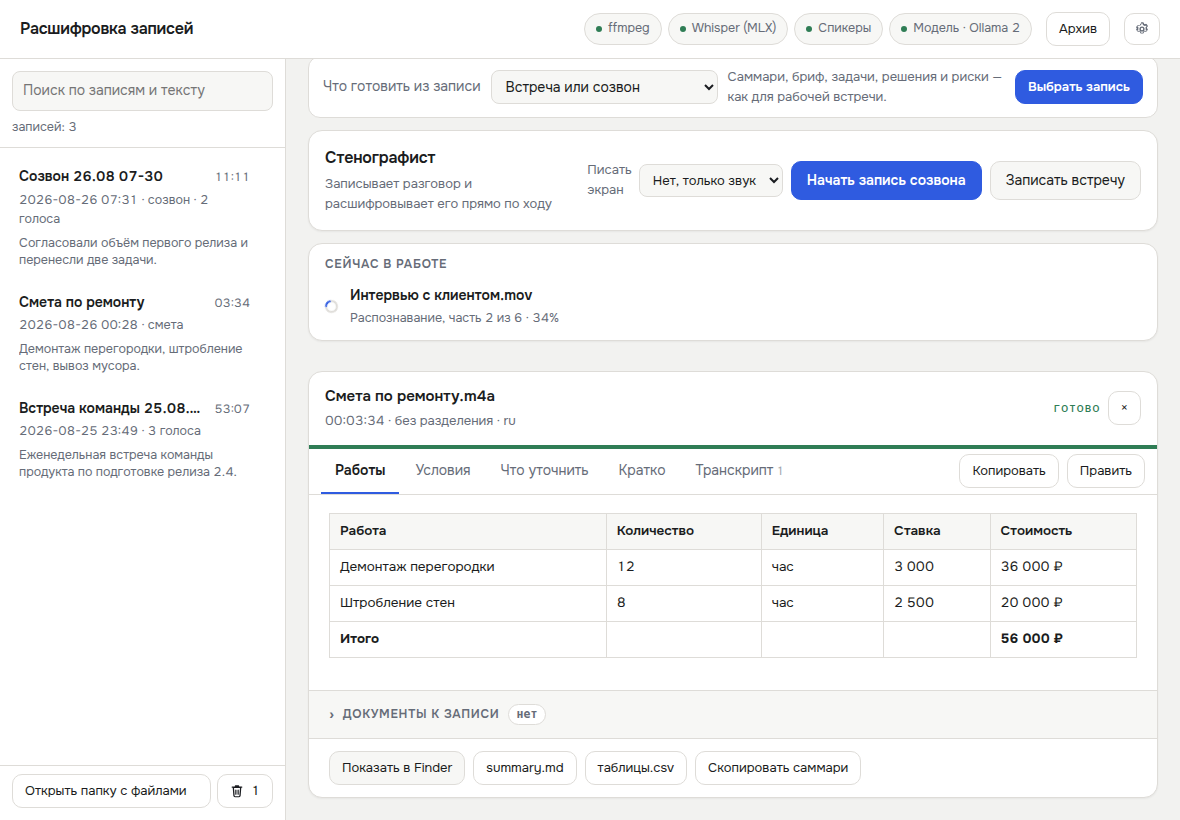
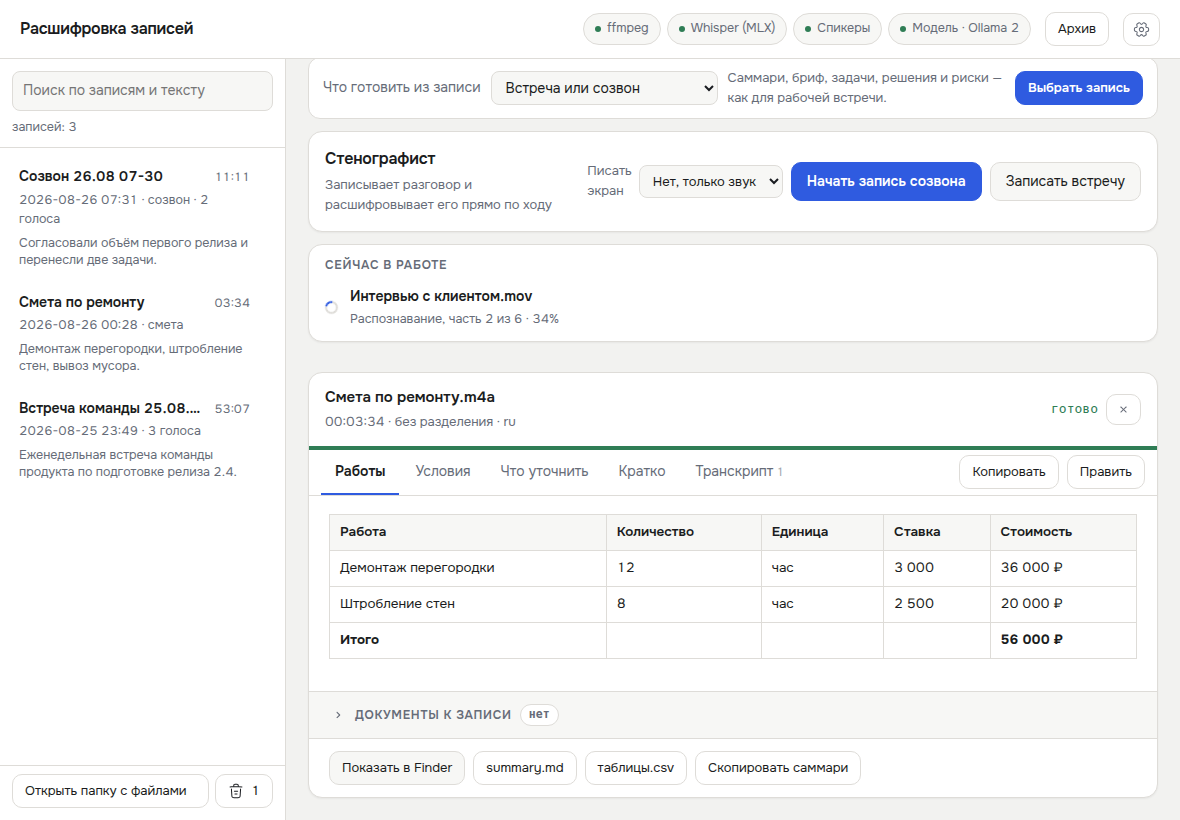
Все значки — из одного набора
Пять значков в окне были нарисованы руками, по одному, и это было видно:
разная толщина линии, разный радиус скругления, окно как будто собрано из
запчастей. Теперь все они из Iconsax (outline, 24×24) — из файла
сообщества Panda Icons Library в Figma.

Заодно ушли типографские подделки: крестик на кнопках удаления и уголок
на аккордеоне документов были буквами × и ›, притворявшимися значками.
Теперь это глифы того же набора; крестик — плюс, повёрнутый на 45°, как
рисует его и сам Iconsax.

Контуры лежат в одном объекте ICONS, цвет всегда currentColor — поэтому
обе темы и все состояния работают без второй копии чего бы то ни было, а
поменять набор целиком стоит одной правки. Файлов со значками нет и сети
они не требуют.

Условия — CC BY 4.0, то есть с указанием авторства: оно в настройках, в
README и в app/ui/icons/LICENSE-Iconsax.md. Там же записана неувязка:
сайт Iconsax говорит про CC BY 4.0, а LICENSE в их репозитории содержит
GPLv3. Перед продажей это стоит уточнить.

Claude-Session: https://claude.ai/code/session_01AUuHav9KvYAq5v96bGGMQJ

diff --git a/app/ui/index.html b/app/ui/index.html
@@ -67,6 +67,11 @@
     -webkit-font-smoothing:antialiased; overflow:hidden;
   }
   button{font:inherit; color:inherit; cursor:pointer; border:none; background:none}
+  /* Кнопка со значком центрирует его сама: раньше на этом месте стоял
+     текстовый крестик и всё держалось на межстрочном интервале. */
+  .kill, .x, .close, .tri, .ico{display:inline-flex; align-items:center; justify-content:center}
+  .icn{display:block; flex:0 0 auto}
+  .credit{font-size:11px; color:var(--muted); flex:1 1 100%; line-height:1.4}
   .btn{
     display:inline-flex; align-items:center; gap:7px; padding:8px 15px; font-size:14px;
     border-radius:10px; background:var(--panel-2); border:1px solid var(--line);
@@ -324,7 +329,7 @@
   }
   .docs summary::-webkit-details-marker{display:none}
   .docs summary:hover{color:var(--text)}
-  .docs summary .tri{display:inline-block; transition:transform .15s; font-size:15px}
+  .docs summary .tri{transition:transform .15s; color:var(--muted)}
   .docs[open] summary .tri{transform:rotate(90deg)}
   .docs summary .count{
     font-family:var(--mono); font-size:11.5px; letter-spacing:0; text-transform:none;
@@ -500,9 +505,7 @@
     <button class="btn ghost sm" id="btn-side" data-t="head.archive" data-t-title="head.archiveTitle" title="Показать или скрыть архив">Архив</button>
     <button class="btn ghost sm icon" id="btn-settings" data-t-title="head.settings"
       data-t-aria="head.settings" title="Настройки" aria-label="Настройки">
-      <svg viewBox="0 0 16 16" width="16" height="16" aria-hidden="true"><path fill="currentColor"
-        d="M8 5.4a2.6 2.6 0 1 0 0 5.2 2.6 2.6 0 0 0 0-5.2Zm0 1.4a1.2 1.2 0 1 1 0 2.4 1.2 1.2 0 0 1 0-2.4Z"/>
-      <path fill="currentColor" d="M7.1 1.2h1.8c.5 0 .9.35.98.84l.12.75c.3.11.58.25.85.42l.7-.3a1 1 0 0 1 1.2.33l.9 1.24a1 1 0 0 1-.13 1.32l-.57.5c.03.16.04.33.04.5s-.01.34-.04.5l.57.5a1 1 0 0 1 .13 1.32l-.9 1.24a1 1 0 0 1-1.2.33l-.7-.3c-.27.17-.55.31-.85.42l-.12.75a1 1 0 0 1-.98.84H7.1a1 1 0 0 1-.98-.84l-.12-.75c-.3-.11-.58-.25-.85-.42l-.7.3a1 1 0 0 1-1.2-.33l-.9-1.24a1 1 0 0 1 .13-1.32l.57-.5A4.3 4.3 0 0 1 3 8c0-.17.01-.34.04-.5l-.57-.5a1 1 0 0 1-.13-1.32l.9-1.24a1 1 0 0 1 1.2-.33l.7.3c.27-.17.55-.31.85-.42l.12-.75c.08-.49.48-.84.98-.84Zm.32 1.4-.16 1a.7.7 0 0 1-.5.56c-.42.12-.8.34-1.13.63a.7.7 0 0 1-.75.11l-.93-.4-.52.72.76.66c.22.2.31.5.23.79-.06.2-.09.42-.09.63s.03.43.09.63a.7.7 0 0 1-.23.79l-.76.66.52.72.93-.4a.7.7 0 0 1 .75.11c.33.29.71.51 1.13.63a.7.7 0 0 1 .5.56l.16 1h1.16l.16-1a.7.7 0 0 1 .5-.56c.42-.12.8-.34 1.13-.63a.7.7 0 0 1 .75-.11l.93.4.52-.72-.76-.66a.7.7 0 0 1-.23-.79c.06-.2.09-.42.09-.63s-.03-.43-.09-.63a.7.7 0 0 1 .23-.79l.76-.66-.52-.72-.93.4a.7.7 0 0 1-.75-.11 3 3 0 0 0-1.13-.63.7.7 0 0 1-.5-.56l-.16-1H7.42Z"/></svg>
+      <span class="ico" data-icon="gear" data-size="17"></span>
     </button>
   </header>
 
@@ -516,8 +519,7 @@
     <div class="side-foot">
       <button class="btn sm ghost" id="btn-lib-folder" style="flex:1" data-t="side.openFolder">Открыть папку с файлами</button>
       <button class="btn sm ghost" id="btn-trash" title="Корзина" data-t-title="trash.title">
-        <svg viewBox="0 0 16 16" width="14" height="14" aria-hidden="true"><path fill="currentColor"
-          d="M6.2 1.5h3.6c.4 0 .7.3.7.7v.6h3c.4 0 .7.3.7.7s-.3.7-.7.7h-.6l-.7 9.1a1.9 1.9 0 0 1-1.9 1.7H5.7a1.9 1.9 0 0 1-1.9-1.7l-.7-9.1h-.6a.7.7 0 0 1 0-1.4h3v-.6c0-.4.3-.7.7-.7Zm-1.6 3 .7 9c0 .3.3.5.5.5h4.4c.3 0 .5-.2.5-.5l.7-9H4.6Zm2.1 1.9c.4 0 .7.3.7.7v4.6a.7.7 0 0 1-1.4 0V7.1c0-.4.3-.7.7-.7Zm2.6 0c.4 0 .7.3.7.7v4.6a.7.7 0 0 1-1.4 0V7.1c0-.4.3-.7.7-.7Z"/></svg>
+        <span class="ico" data-icon="trash" data-size="16"></span>
         <span id="trash-count"></span>
       </button>
     </div>
@@ -545,6 +547,8 @@
   <div class="foot">
     <button class="btn primary" id="btn-save" data-t="btn.save">Сохранить</button>
     <button class="btn" id="btn-models" data-t="btn.downloadModels">Скачать модели спикеров</button>
+    <!-- Значки — CC BY 4.0, а это требует видимого указания авторства. -->
+    <span class="credit" data-t="settings.credit">Значки — Iconsax (Vuesax), CC BY 4.0</span>
   </div>
 </aside>
 
@@ -591,6 +595,8 @@ const STR = {
     'player.noMarks': 'Меток нет: в этой записи не нашлось решений и задач, привязанных к репликам.',
     'player.jump': 'Перейти к этому месту',
     'player.noServer': 'Проигрыватель не поднялся: локальный сервер не запустился. Метки ниже работают, файл записи можно открыть кнопкой внизу.',
+    'job.hide': 'Убрать карточку из рабочей области',
+    'settings.credit': 'Значки — Iconsax (Vuesax), CC BY 4.0',
     'player.full': 'Во весь экран',
     'player.fullTitle': 'Развернуть запись на весь экран (или двойной клик по картинке)',
     'mark.note': 'Заметка',
@@ -906,6 +912,8 @@ const STR = {
     'player.noMarks': 'No markers: nothing in this recording tied a decision or a task to a line.',
     'player.jump': 'Jump to this moment',
     'player.noServer': 'No player: the local media server did not start. The markers below still work, and the recording opens from the buttons at the bottom.',
+    'job.hide': 'Remove this card from the working area',
+    'settings.credit': 'Icons — Iconsax by Vuesax, CC BY 4.0',
     'player.full': 'Full screen',
     'player.fullTitle': 'Expand the recording to full screen (or double-click the picture)',
     'mark.note': 'Note',
@@ -1223,6 +1231,38 @@ function applyStatic(){
   document.querySelectorAll('[data-t-title]').forEach(el=>{ el.title = T(el.dataset.tTitle); });
   document.querySelectorAll('[data-t-aria]').forEach(el=>{
     el.setAttribute('aria-label', T(el.dataset.tAria)); });
+  paintIcons(document);
+}
+
+/* Значки в неизменной разметке окна: в html стоит пустое место с именем
+   значка, картинку подставляем отсюда — чтобы набор был описан в одном
+   месте, а не переписан руками в каждой кнопке. */
+function paintIcons(root){
+  root.querySelectorAll('.ico[data-icon]').forEach(el=>{
+    el.innerHTML = icon(el.dataset.icon, Number(el.dataset.size) || 16);
+  });
+}
+
+/* ---------- значки ----------
+   Все значки в окне — из одного набора: Panda Icons Library (vuesax
+   outline), 24×24, обводка нарисована заливкой. Один набор вместо
+   самодельных картинок: линии одной толщины, скругления одного радиуса —
+   окно перестаёт выглядеть собранным из разных мест. Цвет всегда
+   наследуется от кнопки, поэтому подсветка и тёмная тема работают сами.
+   Крестик — тот же плюс, повёрнутый на 45°: так его рисует и сам набор. */
+const ICONS = {
+  gear: '<path d="M12 15.75C9.93 15.75 8.25 14.07 8.25 12C8.25 9.93 9.93 8.25 12 8.25C14.07 8.25 15.75 9.93 15.75 12C15.75 14.07 14.07 15.75 12 15.75ZM12 9.75C10.76 9.75 9.75 10.76 9.75 12C9.75 13.24 10.76 14.25 12 14.25C13.24 14.25 14.25 13.24 14.25 12C14.25 10.76 13.24 9.75 12 9.75Z"/><path d="M15.21 22.1898C15 22.1898 14.79 22.1598 14.58 22.1098C13.96 21.9398 13.44 21.5498 13.11 20.9998L12.99 20.7998C12.4 19.7798 11.59 19.7798 11 20.7998L10.89 20.9898C10.56 21.5498 10.04 21.9498 9.42 22.1098C8.79 22.2798 8.14 22.1898 7.59 21.8598L5.87 20.8698C5.26 20.5198 4.82 19.9498 4.63 19.2598C4.45 18.5698 4.54 17.8598 4.89 17.2498C5.18 16.7398 5.26 16.2798 5.09 15.9898C4.92 15.6998 4.49 15.5298 3.9 15.5298C2.44 15.5298 1.25 14.3398 1.25 12.8798V11.1198C1.25 9.6598 2.44 8.4698 3.9 8.4698C4.49 8.4698 4.92 8.2998 5.09 8.0098C5.26 7.7198 5.19 7.2598 4.89 6.7498C4.54 6.1398 4.45 5.4198 4.63 4.7398C4.81 4.0498 5.25 3.4798 5.87 3.1298L7.6 2.1398C8.73 1.4698 10.22 1.8598 10.9 3.0098L11.02 3.2098C11.61 4.2298 12.42 4.2298 13.01 3.2098L13.12 3.0198C13.8 1.8598 15.29 1.4698 16.43 2.1498L18.15 3.1398C18.76 3.4898 19.2 4.0598 19.39 4.7498C19.57 5.4398 19.48 6.1498 19.13 6.7598C18.84 7.2698 18.76 7.7298 18.93 8.0198C19.1 8.3098 19.53 8.4798 20.12 8.4798C21.58 8.4798 22.77 9.6698 22.77 11.1298V12.8898C22.77 14.3498 21.58 15.5398 20.12 15.5398C19.53 15.5398 19.1 15.7098 18.93 15.9998C18.76 16.2898 18.83 16.7498 19.13 17.2598C19.48 17.8698 19.58 18.5898 19.39 19.2698C19.21 19.9598 18.77 20.5298 18.15 20.8798L16.42 21.8698C16.04 22.0798 15.63 22.1898 15.21 22.1898ZM12 18.4898C12.89 18.4898 13.72 19.0498 14.29 20.0398L14.4 20.2298C14.52 20.4398 14.72 20.5898 14.96 20.6498C15.2 20.7098 15.44 20.6798 15.64 20.5598L17.37 19.5598C17.63 19.4098 17.83 19.1598 17.91 18.8598C17.99 18.5598 17.95 18.2498 17.8 17.9898C17.23 17.0098 17.16 15.9998 17.6 15.2298C18.04 14.4598 18.95 14.0198 20.09 14.0198C20.73 14.0198 21.24 13.5098 21.24 12.8698V11.1098C21.24 10.4798 20.73 9.9598 20.09 9.9598C18.95 9.9598 18.04 9.5198 17.6 8.7498C17.16 7.9798 17.23 6.9698 17.8 5.9898C17.95 5.7298 17.99 5.4198 17.91 5.1198C17.83 4.8198 17.64 4.5798 17.38 4.4198L15.65 3.4298C15.22 3.1698 14.65 3.3198 14.39 3.7598L14.28 3.9498C13.71 4.9398 12.88 5.4998 11.99 5.4998C11.1 5.4998 10.27 4.9398 9.7 3.9498L9.59 3.7498C9.34 3.3298 8.78 3.1798 8.35 3.4298L6.62 4.4298C6.36 4.5798 6.16 4.8298 6.08 5.1298C6 5.4298 6.04 5.7398 6.19 5.9998C6.76 6.9798 6.83 7.9898 6.39 8.7598C5.95 9.5298 5.04 9.9698 3.9 9.9698C3.26 9.9698 2.75 10.4798 2.75 11.1198V12.8798C2.75 13.5098 3.26 14.0298 3.9 14.0298C5.04 14.0298 5.95 14.4698 6.39 15.2398C6.83 16.0098 6.76 17.0198 6.19 17.9998C6.04 18.2598 6 18.5698 6.08 18.8698C6.16 19.1698 6.35 19.4098 6.61 19.5698L8.34 20.5598C8.55 20.6898 8.8 20.7198 9.03 20.6598C9.27 20.5998 9.47 20.4398 9.6 20.2298L9.71 20.0398C10.28 19.0598 11.11 18.4898 12 18.4898Z"/>',
+  trash: '<path d="M20.9997 6.72998C20.9797 6.72998 20.9497 6.72998 20.9197 6.72998C15.6297 6.19998 10.3497 5.99998 5.11967 6.52998L3.07967 6.72998C2.65967 6.76998 2.28967 6.46998 2.24967 6.04998C2.20967 5.62998 2.50967 5.26998 2.91967 5.22998L4.95967 5.02998C10.2797 4.48998 15.6697 4.69998 21.0697 5.22998C21.4797 5.26998 21.7797 5.63998 21.7397 6.04998C21.7097 6.43998 21.3797 6.72998 20.9997 6.72998Z"/><path d="M8.50074 5.72C8.46074 5.72 8.42074 5.72 8.37074 5.71C7.97074 5.64 7.69074 5.25 7.76074 4.85L7.98074 3.54C8.14074 2.58 8.36074 1.25 10.6907 1.25H13.3107C15.6507 1.25 15.8707 2.63 16.0207 3.55L16.2407 4.85C16.3107 5.26 16.0307 5.65 15.6307 5.71C15.2207 5.78 14.8307 5.5 14.7707 5.1L14.5507 3.8C14.4107 2.93 14.3807 2.76 13.3207 2.76H10.7007C9.64074 2.76 9.62074 2.9 9.47074 3.79L9.24074 5.09C9.18074 5.46 8.86074 5.72 8.50074 5.72Z"/><path d="M15.2104 22.7501H8.79039C5.30039 22.7501 5.16039 20.8201 5.05039 19.2601L4.40039 9.19007C4.37039 8.78007 4.69039 8.42008 5.10039 8.39008C5.52039 8.37008 5.87039 8.68008 5.90039 9.09008L6.55039 19.1601C6.66039 20.6801 6.70039 21.2501 8.79039 21.2501H15.2104C17.3104 21.2501 17.3504 20.6801 17.4504 19.1601L18.1004 9.09008C18.1304 8.68008 18.4904 8.37008 18.9004 8.39008C19.3104 8.42008 19.6304 8.77007 19.6004 9.19007L18.9504 19.2601C18.8404 20.8201 18.7004 22.7501 15.2104 22.7501Z"/><path d="M13.6601 17.25H10.3301C9.92008 17.25 9.58008 16.91 9.58008 16.5C9.58008 16.09 9.92008 15.75 10.3301 15.75H13.6601C14.0701 15.75 14.4101 16.09 14.4101 16.5C14.4101 16.91 14.0701 17.25 13.6601 17.25Z"/><path d="M14.5 13.25H9.5C9.09 13.25 8.75 12.91 8.75 12.5C8.75 12.09 9.09 11.75 9.5 11.75H14.5C14.91 11.75 15.25 12.09 15.25 12.5C15.25 12.91 14.91 13.25 14.5 13.25Z"/>',
+  plus: '<path d="M18 12.75H6C5.59 12.75 5.25 12.41 5.25 12C5.25 11.59 5.59 11.25 6 11.25H18C18.41 11.25 18.75 11.59 18.75 12C18.75 12.41 18.41 12.75 18 12.75Z"/><path d="M12 18.75C11.59 18.75 11.25 18.41 11.25 18V6C11.25 5.59 11.59 5.25 12 5.25C12.41 5.25 12.75 5.59 12.75 6V18C12.75 18.41 12.41 18.75 12 18.75Z"/>',
+  expand: '<path d="M21 9.75C20.59 9.75 20.25 9.41 20.25 9V3.75H15C14.59 3.75 14.25 3.41 14.25 3C14.25 2.59 14.59 2.25 15 2.25H21C21.41 2.25 21.75 2.59 21.75 3V9C21.75 9.41 21.41 9.75 21 9.75Z"/><path d="M9 21.75H3C2.59 21.75 2.25 21.41 2.25 21V15C2.25 14.59 2.59 14.25 3 14.25C3.41 14.25 3.75 14.59 3.75 15V20.25H9C9.41 20.25 9.75 20.59 9.75 21C9.75 21.41 9.41 21.75 9 21.75Z"/><path d="M13.4995 11.2499C13.3095 11.2499 13.1195 11.1799 12.9695 11.0299C12.6795 10.7399 12.6795 10.2599 12.9695 9.96994L20.4695 2.46994C20.7595 2.17994 21.2395 2.17994 21.5295 2.46994C21.8195 2.75994 21.8195 3.23994 21.5295 3.52994L14.0295 11.0299C13.8795 11.1799 13.6895 11.2499 13.4995 11.2499Z"/><path d="M2.99945 21.7499C2.80945 21.7499 2.61945 21.6799 2.46945 21.5299C2.17945 21.2399 2.17945 20.7599 2.46945 20.4699L9.96945 12.9699C10.2595 12.6799 10.7395 12.6799 11.0295 12.9699C11.3195 13.2599 11.3195 13.7399 11.0295 14.0299L3.52945 21.5299C3.37945 21.6799 3.18945 21.7499 2.99945 21.7499Z"/>',
+  chevron: '<path d="M10.7397 16.2802C10.5497 16.2802 10.3597 16.2102 10.2097 16.0602C9.91969 15.7702 9.91969 15.2902 10.2097 15.0002L13.2097 12.0002L10.2097 9.00016C9.91969 8.71016 9.91969 8.23016 10.2097 7.94016C10.4997 7.65016 10.9797 7.65016 11.2697 7.94016L14.7997 11.4702C15.0897 11.7602 15.0897 12.2402 14.7997 12.5302L11.2697 16.0602C11.1197 16.2102 10.9297 16.2802 10.7397 16.2802Z"/>',
+  close: '<g transform="rotate(45 12 12)"><path d="M18 12.75H6C5.59 12.75 5.25 12.41 5.25 12C5.25 11.59 5.59 11.25 6 11.25H18C18.41 11.25 18.75 11.59 18.75 12C18.75 12.41 18.41 12.75 18 12.75Z"/><path d="M12 18.75C11.59 18.75 11.25 18.41 11.25 18V6C11.25 5.59 11.59 5.25 12 5.25C12.41 5.25 12.75 5.59 12.75 6V18C12.75 18.41 12.41 18.75 12 18.75Z"/></g>',
+};
+
+function icon(name, size){
+  const px = size || 16;
+  return `<svg class="icn" viewBox="0 0 24 24" width="${px}" height="${px}"
+    fill="currentColor" aria-hidden="true">${ICONS[name] || ''}</svg>`;
 }
 
 /* ========== мини-рендер markdown ========== */
@@ -1437,12 +1477,7 @@ function wirePlayer(j){
 
 /* Разворот на весь экран. В маленьком окошке не разобрать, что показывали, а
    встроенной кнопки у WebKit в этом окне нет — делаем свою. */
-const FULL_ICON = `<svg viewBox="0 0 16 16" width="12" height="12" aria-hidden="true"><path
-  fill="currentColor" d="M2.6 2h3.2a.7.7 0 0 1 0 1.4H4.05l2.1 2.1a.7.7 0 1 1-1 1L3.05 4.4v1.75a.7.7 0
-  0 1-1.4 0V2.95c0-.52.43-.95.95-.95Zm10.8 0c.52 0 .95.43.95.95v3.2a.7.7 0 0 1-1.4 0V4.4l-2.1 2.1a.7.7
-  0 1 1-1-1l2.1-2.1h-1.75a.7.7 0 0 1 0-1.4h3.2ZM2.35 9.15c.39 0 .7.31.7.7v1.75l2.1-2.1a.7.7 0 1 1 1
-  1l-2.1 2.1h1.75a.7.7 0 0 1 0 1.4H2.6a.95.95 0 0 1-.95-.95v-3.2c0-.39.31-.7.7-.7Zm11.3 0c.39 0 .7.31.7.7v3.2c0
-  .52-.43.95-.95.95h-3.2a.7.7 0 0 1 0-1.4h1.75l-2.1-2.1a.7.7 0 1 1 1-1l2.1 2.1v-1.75c0-.39.31-.7.7-.7Z"/></svg>`;
+const FULL_ICON = icon('expand', 14);
 
 function goFull(jobId){
   const media=document.getElementById('media-'+jobId);
@@ -1462,8 +1497,7 @@ function seekTo(jobId, seconds){
   return true;
 }
 
-const PLUS_ICON = `<svg viewBox="0 0 16 16" width="13" height="13" aria-hidden="true"><path
-  fill="currentColor" d="M8 2.6c.4 0 .75.34.75.75V7.2h3.9a.75.75 0 0 1 0 1.5h-3.9v3.85a.75.75 0 0 1-1.5 0V8.7H3.3a.75.75 0 0 1 0-1.5h3.95V3.35c0-.41.34-.75.75-.75Z"/></svg>`;
+const PLUS_ICON = icon('plus', 15);
 
 function docsHTML(j){
   // Пока запись считается, прикладывать нечего: файлы записи ещё не готовы.
@@ -1478,7 +1512,7 @@ function docsHTML(j){
   const open = state.docsOpen.has(j.id) || false;
   return `<details class="docs" ${open?'open':''} data-docs="${j.id}">
     <summary>
-      <span class="tri" aria-hidden="true">›</span>
+      <span class="tri ico" aria-hidden="true">${icon('chevron', 18)}</span>
       ${T('docs.heading')}
       <span class="count">${items.length ? items.length : T('docs.none')}</span>
     </summary>
@@ -1491,7 +1525,7 @@ function docsHTML(j){
             data-thumb="${esc(d.name)}" data-job="${j.id}"></button>
           <figcaption>${esc(d.name)}</figcaption>
           ${editing?`<button class="x" data-docdel="${esc(d.name)}" data-job="${j.id}"
-            title="${T('docs.remove')}">×</button>`:''}
+            title="${T('docs.remove')}">${icon('close', 15)}</button>`:''}
         </figure>`).join('')}</div>` : ''}
       ${docs.length ? `<div class="list">${docs.map(d=>`
         <span class="doc ${editing?'editing':''}">
@@ -1500,7 +1534,7 @@ function docsHTML(j){
           <span class="kb">${Math.max(1, Math.round(d.size/1024))} ${T('docs.kb')}</span>
           ${d.readable?'':`<span class="no">${T('docs.unreadable')}</span>`}
           ${editing?`<button class="x" data-docdel="${esc(d.name)}" data-job="${j.id}"
-            title="${T('docs.remove')}">×</button>`:''}
+            title="${T('docs.remove')}">${icon('close', 15)}</button>`:''}
         </span>`).join('')}</div>` : ''}
       <div class="acts">
         <button class="btn sm primary" data-docadd="${j.id}">${PLUS_ICON}${T('docs.add')}</button>
@@ -1530,7 +1564,7 @@ async function fillThumbs(){
 async function showShot(jobId, name){
   const box=document.createElement('div');
   box.className='lightbox';
-  box.innerHTML=`<button class="close" title="${T('docs.closeShot')}">×</button><img alt="${esc(name)}">`;
+  box.innerHTML=`<button class="close" title="${T('docs.closeShot')}">${icon('close', 24)}</button><img alt="${esc(name)}">`;
   box.onclick=()=>box.remove();
   document.body.appendChild(box);
   const big=await api().attach_preview(jobId, name, 1600);
@@ -1608,7 +1642,8 @@ function jobCard(j){
           <button class="btn sm ghost" data-cancel="${j.id}">${T('job.cancel')}</button>`:''}
         ${j.status==='done'?`<span class="pct" style="color:var(--ok)">${T('job.done')}</span>`:''}
         ${j.status==='cancelled'?`<span class="pct">${T('job.cancelled')}</span>`:''}
-        ${j.status!=='running'&&j.status!=='pending'?`<button class="btn sm ghost" data-remove="${j.id}">×</button>`:''}
+        ${j.status!=='running'&&j.status!=='pending'?`<button class="btn sm ghost icon" data-remove="${j.id}"
+          title="${T('job.hide')}">${icon('close', 15)}</button>`:''}
       </div>
     </div>
     <div class="bar"><i style="width:${(j.progress*100).toFixed(1)}%"></i></div>
@@ -1689,16 +1724,16 @@ function editorHTML(j,key){
     if(b.type==='table'){
       const head=`<div class="row">${b.header.map(c=>
         `<span class="cell" contenteditable="true" data-head="1">${esc(c)}</span>`).join('')}
-        <button class="kill" style="visibility:hidden">×</button></div>`;
+        <button class="kill" style="visibility:hidden">${icon('close', 15)}</button></div>`;
       const rows=b.rows.map(cells=>`<div class="row" data-row="1">${
         cells.map(c=>`<span class="cell" contenteditable="true">${esc(c)}</span>`).join('')}
-        <button class="kill" data-strike="1" title="${T('edit.removeRowTitle')}">×</button></div>`).join('');
+        <button class="kill" data-strike="1" title="${T('edit.removeRowTitle')}">${icon('close', 15)}</button></div>`).join('');
       return `<div class="edit-table" data-sep="${esc(b.sep)}">${head}${rows}</div>`;
     }
     const heading=/^\s*#{2,4}\s/.test(b.text);
     return `<div class="edit-item${heading?' head':''}" data-line="1">
       <span class="body${heading?' edit-head':''}" contenteditable="true">${esc(b.text)}</span>
-      <button class="kill" data-strike="1" title="${T('edit.removePointTitle')}">×</button></div>`;
+      <button class="kill" data-strike="1" title="${T('edit.removePointTitle')}">${icon('close', 15)}</button></div>`;
   }).join('');
   return out + `<div class="edit-foot">
       <button class="btn sm primary" data-editsave="${j.id}">${T('btn.save')}</button>
@@ -1740,8 +1775,7 @@ function libSub(it){
   return bits.join(' · ');
 }
 
-const TRASH_ICON = `<svg viewBox="0 0 16 16" width="14" height="14" aria-hidden="true"><path fill="currentColor"
-  d="M6.2 1.5h3.6c.4 0 .7.3.7.7v.6h3c.4 0 .7.3.7.7s-.3.7-.7.7h-.6l-.7 9.1a1.9 1.9 0 0 1-1.9 1.7H5.7a1.9 1.9 0 0 1-1.9-1.7l-.7-9.1h-.6a.7.7 0 0 1 0-1.4h3v-.6c0-.4.3-.7.7-.7Zm-1.6 3 .7 9c0 .3.3.5.5.5h4.4c.3 0 .5-.2.5-.5l.7-9H4.6Zm2.1 1.9c.4 0 .7.3.7.7v4.6a.7.7 0 0 1-1.4 0V7.1c0-.4.3-.7.7-.7Zm2.6 0c.4 0 .7.3.7.7v4.6a.7.7 0 0 1-1.4 0V7.1c0-.4.3-.7.7-.7Z"/></svg>`;
+const TRASH_ICON = icon('trash', 15);
 
 /* Корзина живёт в той же панели: список записей подменяется списком удалённых,
    чтобы не заводить ещё одно окно ради четырёх строк. */
@@ -2159,7 +2193,7 @@ function directoryHTML(){
       ${rows.map(p=>`<div class="people-row">
         <span class="who">${esc(p.name)}${p.role?` <span class="role">· ${esc(p.role)}</span>`:''}</span>
         ${p.voice?`<span class="mark">${T('people.hasVoice')}</span>`:''}
-        <button class="x" data-personout="${esc(p.name)}" title="${T('people.remove')}">×</button>
+        <button class="x" data-personout="${esc(p.name)}" title="${T('people.remove')}">${icon('close', 14)}</button>
       </div>`).join('')}
     </div>`;
   }).join('');
@@ -2182,7 +2216,7 @@ function knownVoicesHTML(){
     `<span class="spk"><b>${esc(v.name)}</b>
       <span class="m">${T('settings.voicePrints',{n:v.prints})}</span>
       <button class="x" data-forget="${esc(v.name)}"
-        title="${T('settings.forgetVoice')}">×</button></span>`).join('') + `</div>`;
+        title="${T('settings.forgetVoice')}">${icon('close', 14)}</button></span>`).join('') + `</div>`;
 }
 
 async function loadVoices(){

diff --git a/app/__init__.py b/app/__init__.py
@@ -1,3 +1,3 @@
 """Локальная расшифровка записей: транскрипт, саммари, бриф, задачи."""
 
-__version__ = "1.6.2"
+__version__ = "1.6.3"

diff --git a/app/ui/icons/LICENSE-Iconsax.md b/app/ui/icons/LICENSE-Iconsax.md
@@ -1,0 +1,28 @@
+# Значки в окне приложения
+
+Все значки взяты из одного набора — **Iconsax** (авторы — Vuesax), стиль
+`outline`, 24×24. В приложение они попали через файл сообщества Figma
+[Panda Icons Library](https://www.figma.com/design/jXXgEJCcPZv2mRe788eBsP/Panda-Icons-Library--Community-),
+где слои так и называются: `vuesax/outline/…`.
+
+Отдельных файлов нет: контуры вшиты в `app/ui/index.html` (объект `ICONS`),
+потому что приложение обещает работать без сети и не подтягивать ничего
+снаружи. Использованы: `setting-2`, `trash`, `add`, `maximize-4` и стрелка
+из `arrow-right`. Крестик — тот же `add`, повёрнутый на 45°: так его рисует
+и сам набор.
+
+## Условия
+
+Официальная документация Iconsax сообщает, что бесплатный набор
+распространяется по **CC BY 4.0**: коммерческое использование разрешено при
+указании авторства. Это указание — здесь и в README.
+
+**Расхождение, о котором стоит знать.** В репозитории
+[Vuesax/iconsax](https://github.com/Vuesax/iconsax) файл `LICENSE` содержит
+текст **GPLv3**, а сайт [iconsax.io](https://docs.iconsax.io/faqs/more)
+говорит про CC BY 4.0. Два источника противоречат друг другу. Пока
+приложение раздаётся как есть, с указанием авторства, — этого достаточно и
+для CC BY. Но если дело дойдёт до платного распространения или до магазина
+приложений, условия стоит уточнить у авторов набора: разница между CC BY и
+GPL в этом случае принципиальна. Заменить набор дёшево — все контуры лежат в
+одном объекте `ICONS`.

diff --git a/docs/architecture.md b/docs/architecture.md
@@ -355,6 +355,30 @@ random port, restricted to the recording folders and to known extensions. The
 important part is the `Range` header: without it a player cannot seek, and
 seeking is the whole point.
 
+## One icon set, shipped inside
+
+The five icons in the window were drawn by hand, one at a time, and it showed:
+different stroke weights, different corner radii, a window that looked
+assembled from spare parts. They now all come from Iconsax (outline style, a
+24×24 grid), taken from the Panda Icons Library community file in Figma.
+
+The typographic stand-ins went with them: the `×` on every remove button and
+the `›` on the documents accordion were letters pretending to be icons. They
+are the set's own glyphs now — the cross is the plus rotated 45°, which is how
+Iconsax draws it too.
+
+The paths live in a single `ICONS` object in `app/ui/index.html` and the colour
+is always `currentColor`, so both themes, hover and highlight states work
+without a second copy of anything, and swapping the whole set costs one edit.
+There are no icon files and no network: the app promises to work offline, and
+that promise covers letters and icons as well.
+
+The terms are CC BY 4.0 — with attribution — which is in Settings, in the
+README and in `app/ui/icons/LICENSE-Iconsax.md`. That file also records a
+contradiction: the Iconsax site says CC BY 4.0 while the `LICENSE` file in
+their repository contains GPLv3. Fine while the app is given away as is; worth
+settling before it is ever sold.
+
 ## Two traps in testing this
 
 **Synthetic voices prove nothing.** Both a pitch-shifted TTS voice and three

diff --git a/CHANGELOG.md b/CHANGELOG.md
@@ -4,6 +4,24 @@ All notable changes to this project are documented here.
 The format follows [Keep a Changelog](https://keepachangelog.com/en/1.1.0/),
 and the project uses [semantic versioning](https://semver.org/).
 
+## [1.6.3] — 2026-08-30
+
+### Changed
+
+- **Every icon now comes from one set.** The five icons in the window were
+  drawn by hand, one at a time, and it showed: different stroke weights,
+  different corner radii, a window that looked assembled from spare parts.
+  They are all replaced with **Iconsax** (outline, 24×24), taken from the
+  Panda Icons Library file in Figma. The typographic stand-ins went with them
+  — the `×` on every remove button and the `›` on the documents accordion are
+  now the set's own glyphs, so nothing is a letter pretending to be an icon.
+  The paths live in one `ICONS` object, colour is inherited from the button,
+  so both themes and every hover state work without a second copy of anything.
+- The icons ship inside the app like the typeface does — nothing is fetched
+  from a network. They are CC BY 4.0, so the credit is in Settings, in the
+  README, and in `app/ui/icons/LICENSE-Iconsax.md`, which also records a
+  contradiction worth knowing about before the app is ever sold.
+
 ## [1.6.2] — 2026-08-30
 
 ### Fixed

diff --git a/README.md b/README.md
@@ -514,3 +514,12 @@ Contributions are welcome — see [CONTRIBUTING.md](CONTRIBUTING.md).
 ## License
 
 [MIT](LICENSE) — use it, change it, ship it, for free.
+
+Two things in here are not mine, and both ship inside the app rather than
+being fetched from anywhere:
+
+- **The Onest typeface** — SIL Open Font License, text in
+  [app/ui/fonts/LICENSE-Onest.txt](app/ui/fonts/LICENSE-Onest.txt).
+- **The Iconsax icons** by Vuesax, outline style — CC BY 4.0, i.e. with
+  attribution. Details, and one contradiction in the terms, in
+  [app/ui/icons/LICENSE-Iconsax.md](app/ui/icons/LICENSE-Iconsax.md).
